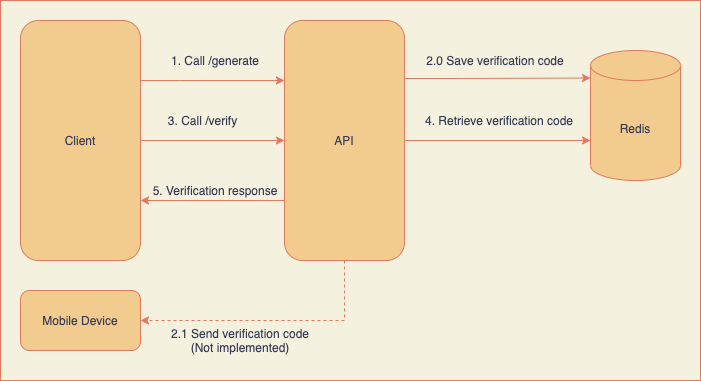
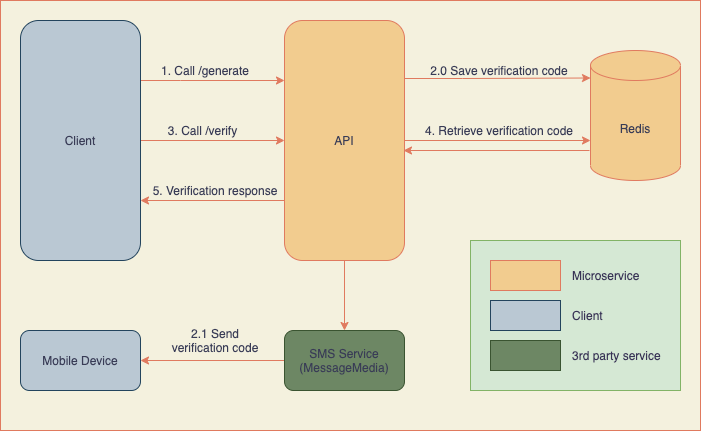
Implement text messaging.

diff --git a/src/clients/sms/sms_client.go b/src/clients/sms/sms_client.go
@@ -1,0 +1,70 @@
+package sms
+
+import (
+	"fmt"
+	"net/http"
+
+	appconfig "github.com/jiaqi-yin/go-verification-code/src/app_config"
+	"github.com/jiaqi-yin/go-verification-code/src/domain/sms"
+	"github.com/jiaqi-yin/go-verification-code/src/utils"
+	"github.com/mercadolibre/golang-restclient/rest"
+)
+
+const (
+	phoneCountryCode = "+61" // Australia mobile number
+)
+
+type SmsClientInterface interface {
+	SendMessage(string, string) utils.RestErr
+}
+
+type smsClient struct {
+	client *rest.RequestBuilder
+}
+
+func (c *smsClient) SendMessage(phone string, code string) utils.RestErr {
+	var destination string
+	if len(phone) == 10 {
+		// Convert the 10 digit mobile number to the E.164 international format.
+		destination = phoneCountryCode + phone[1:]
+	} else {
+		return utils.NewBadRequestError("phone_number should have 10 digit numbers")
+	}
+
+	messages := sms.Messages{
+		Messages: []sms.Message{
+			{
+				Content:     fmt.Sprintf("Your verification code is %s", code),
+				Destination: destination,
+				Format:      "SMS",
+			},
+		},
+	}
+
+	response := c.client.Post("/v1/messages", messages)
+
+	if response == nil || response.Response == nil {
+		return utils.NewInternalServerError("invalid rest response when trying to send text messages")
+	}
+
+	if response.StatusCode > 299 {
+		return utils.NewInternalServerError("invalide rest response status when trying to send text messages")
+	}
+
+	return nil
+}
+
+func NewSmsClient() SmsClientInterface {
+	headers := make(http.Header)
+	headers.Add("Authorization", "Basic "+appconfig.Config.SmsAuthorization)
+
+	requestBuilder := &rest.RequestBuilder{
+		Headers:     headers,
+		BaseURL:     appconfig.Config.SmsBaseUrl,
+		ContentType: rest.JSON,
+	}
+
+	return &smsClient{
+		client: requestBuilder,
+	}
+}

diff --git a/src/domain/code/code_dao.go b/src/domain/code/code_dao.go
@@ -23,7 +23,7 @@ func getCodeKey(phoneNo string) string {
 	return codeKeyPrefix + phoneNo
 }
 
-func (codeGenerator *CodeGenerator) Generate() utils.RestErr {
+func (codeGenerator *CodeGenerator) Generate() (string, utils.RestErr) {
 	countKey := getCountKey(codeGenerator.Phone)
 	codeKey := getCodeKey(codeGenerator.Phone)
 
@@ -31,24 +31,24 @@ func (codeGenerator *CodeGenerator) Generate() utils.RestErr {
 	if count == "" {
 		expiration, err := utils.TimeDiffInSecBetweenNowAndTomorrow()
 		if err != nil {
-			return utils.NewInternalServerError(err.Error())
+			return "", utils.NewInternalServerError(err.Error())
 		}
 		redis.Client.Set(countKey, "1", expiration)
 		verificationCode := utils.EncodeToString(6)
 		redis.Client.Set(codeKey, verificationCode, codeExpiration)
-		return nil
+		return verificationCode, nil
 	} else {
 		retries, err := strconv.Atoi(count)
 		if err != nil {
-			return utils.NewInternalServerError(err.Error())
+			return "", utils.NewInternalServerError(err.Error())
 		}
 		if retries < retryLimit {
 			verificationCode := utils.EncodeToString(6)
 			redis.Client.Set(codeKey, verificationCode, codeExpiration)
 			redis.Client.Incr(countKey)
-			return nil
+			return verificationCode, nil
 		} else {
-			return utils.NewBadRequestError("You are exceeding the limit today. Please try it tomorrow.")
+			return "", utils.NewBadRequestError("You are exceeding the limit today. Please try it tomorrow.")
 		}
 	}
 }

diff --git a/src/services/code_service.go b/src/services/code_service.go
@@ -1,6 +1,7 @@
 package services
 
 import (
+	"github.com/jiaqi-yin/go-verification-code/src/clients/sms"
 	"github.com/jiaqi-yin/go-verification-code/src/domain/code"
 	"github.com/jiaqi-yin/go-verification-code/src/utils"
 )
@@ -10,18 +11,23 @@ var (
 )
 
 type codeServiceInterface interface {
-	Generate(code.CodeGenerator) (bool, utils.RestErr)
+	Generate(code.CodeGenerator, sms.SmsClientInterface) (bool, utils.RestErr)
 	Verify(code.CodeVerifier) (bool, utils.RestErr)
 }
 
 type codeService struct{}
 
-func (s *codeService) Generate(codeGenerator code.CodeGenerator) (bool, utils.RestErr) {
+func (s *codeService) Generate(codeGenerator code.CodeGenerator, smsClient sms.SmsClientInterface) (bool, utils.RestErr) {
 	if err := codeGenerator.Validate(); err != nil {
 		return false, err
 	}
 
-	if err := codeGenerator.Generate(); err != nil {
+	code, err := codeGenerator.Generate()
+	if err != nil {
+		return false, err
+	}
+
+	if err := smsClient.SendMessage(codeGenerator.Phone, code); err != nil {
 		return false, err
 	}
 

diff --git a/src/controllers/code/code_controller.go b/src/controllers/code/code_controller.go
@@ -4,6 +4,7 @@ import (
 	"net/http"
 
 	"github.com/gin-gonic/gin"
+	"github.com/jiaqi-yin/go-verification-code/src/clients/sms"
 	"github.com/jiaqi-yin/go-verification-code/src/domain/code"
 	"github.com/jiaqi-yin/go-verification-code/src/services"
 	"github.com/jiaqi-yin/go-verification-code/src/utils"
@@ -28,7 +29,8 @@ func (controller *codeController) Generate(c *gin.Context) {
 		return
 	}
 
-	result, err := services.CodeService.Generate(codeGenerator)
+	smsClient := sms.NewSmsClient()
+	result, err := services.CodeService.Generate(codeGenerator, smsClient)
 	if err != nil {
 		c.JSON(err.Status(), err)
 		return

diff --git a/src/app_config/config.go b/src/app_config/config.go
@@ -7,9 +7,11 @@ var (
 )
 
 type config struct {
-	RedisHost  string `mapstructure:"REDIS_HOST"`
-	RedisPort  string `mapstructure:"REDIS_PORT"`
-	ServerAddr string `mapstructure:"SERVER_ADDR"`
+	RedisHost        string `mapstructure:"REDIS_HOST"`
+	RedisPort        string `mapstructure:"REDIS_PORT"`
+	ServerAddr       string `mapstructure:"SERVER_ADDR"`
+	SmsBaseUrl       string `mapstructure:"SMS_BASE_URL"`
+	SmsAuthorization string `mapstructure:"SMS_AUTHORIZATION"`
 }
 
 func LoadConfig(path string) {

diff --git a/src/domain/sms/message.go b/src/domain/sms/message.go
@@ -1,0 +1,11 @@
+package sms
+
+type Message struct {
+	Content     string `json:"content"`
+	Destination string `json:"destination_number"`
+	Format      string `json:"format"`
+}
+
+type Messages struct {
+	Messages []Message `json:"messages"`
+}

diff --git a/README.md b/README.md
@@ -2,7 +2,7 @@
 
 This is a microservice to generate and verify a 6 digit verification code. It can be applied in the common verification use case.
 
-![Flow chart](https://raw.githubusercontent.com/jiaqi-yin/go-verification-code/master/flow.png)
+![Flow chart](./flow.png)
 
 Basic use cases
 
@@ -25,20 +25,31 @@ Run `docker-compose up --build`
 
 - Endpoint: `/generate`
 
-  Request: `curl -X POST 'localhost:8080/generate' -H 'Content-Type: application/json' -d '{"phone_number": "0987654321"}'`
+  Request: `curl -X POST 'localhost:8080/generate' -H 'Content-Type: application/json' -d '{"phone_number": "0487654321"}'`
 
   Response: `true`
 
 - Endpoint: `/verify`
 
-  Request: `curl -X POST 'localhost:8080/verify' -H 'Content-Type: application/json' -d '{"phone_number": "0987654321","verification_code": "572631"}'`
+  Request: `curl -X POST 'localhost:8080/verify' -H 'Content-Type: application/json' -d '{"phone_number": "0487654321","verification_code": "572631"}'`
 
   Response: `true`
 
 ### Get Verification Code
 
-> The verification code generated via `/generate` is stored in Redis. The SMS service is not included in this app. It would be a future feature to add in. For now, you can get it via the commands below.
+> The verification code generated via `/generate` is stored in Redis. A text message will be sent to the designated mobile. You can also get it via the commands below.
 
 1. Run `docker run -it --rm --network go-verification-code_app-tier bitnami/redis:latest redis-cli -h redis` to connect to the `redis` container.
-2. Get the verfication code by key, e.g: `get code:0987654321`.
+2. Get the verfication code by key, e.g: `get code:+61487654321`.
 3. Then you can use the verfication code in the `/verify` request.
+
+### SMS Service
+
+MessageMedia
+
+- [MessageMedia](https://messagemedia.com/au/) is used as an SMS service to send the verification code via text messages.
+- You can replace the SMS_AUTHORIZATION value in the config.env file with your own MessageMedia API key/secret pair to make it work.
+- In testing, the Australian (+61) mobile number is used.
+- Refer to https://messagemedia.github.io/documentation/ for more information.
+
+Alternatively, you can adopt other SMS service by implementing the `SmsClientInterface` interface.
